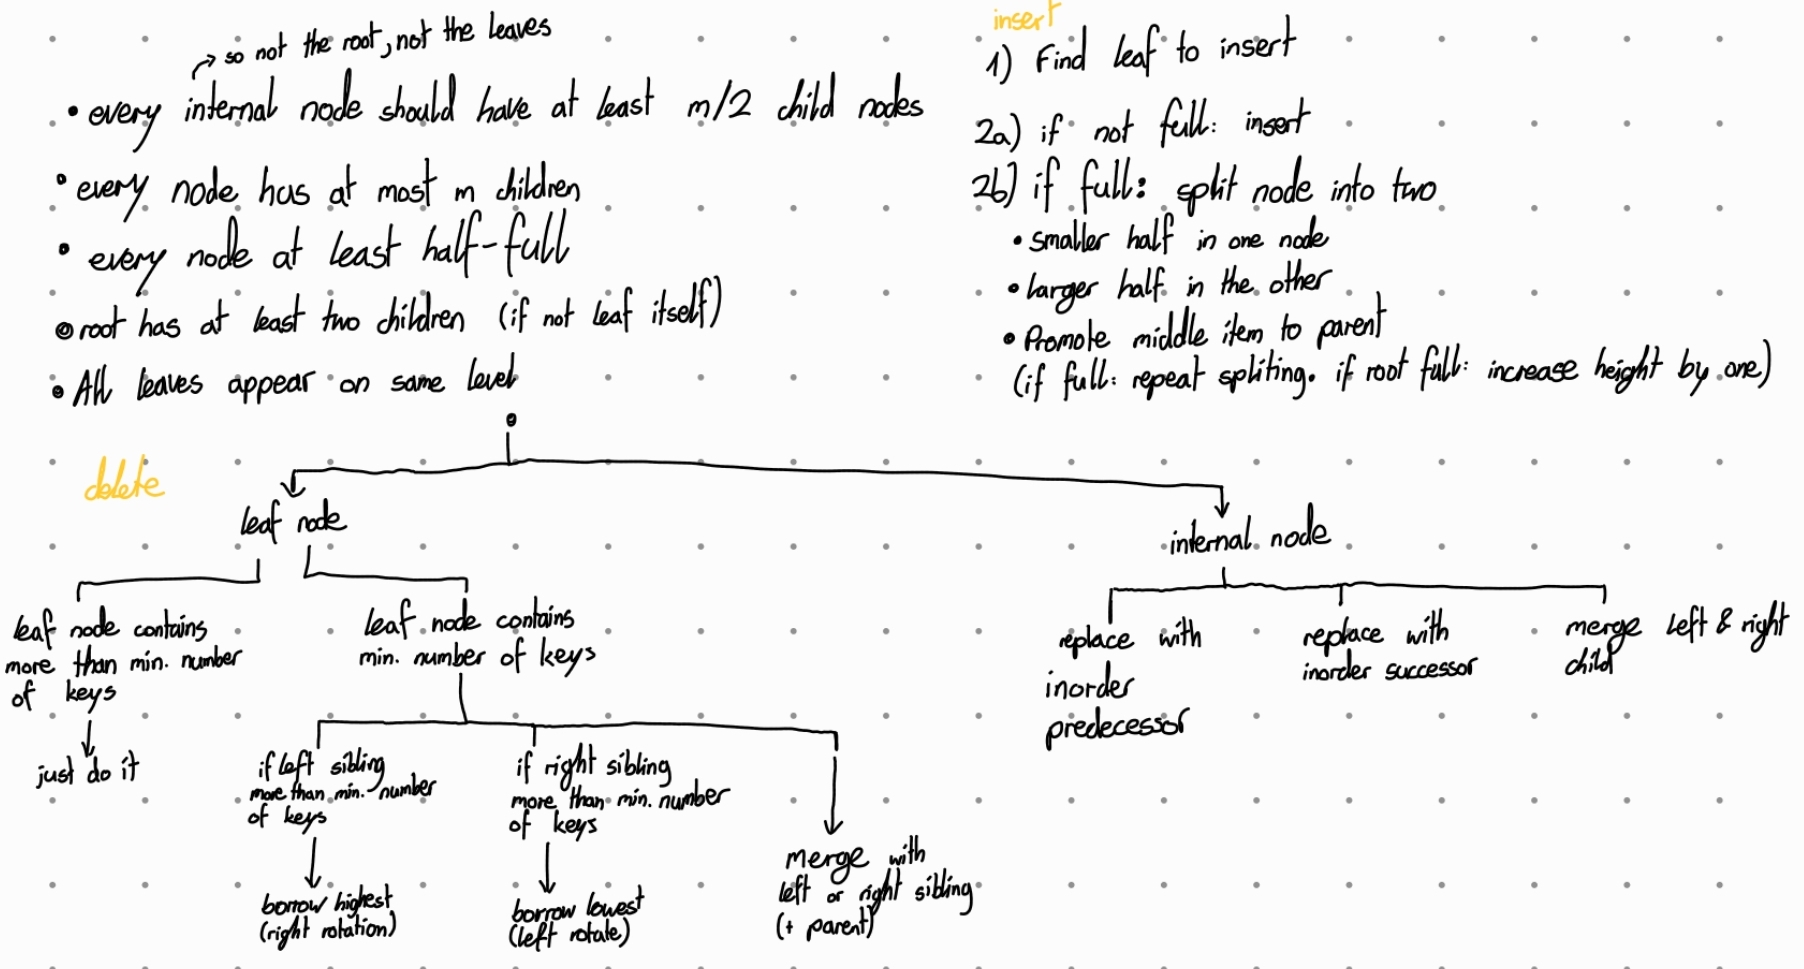
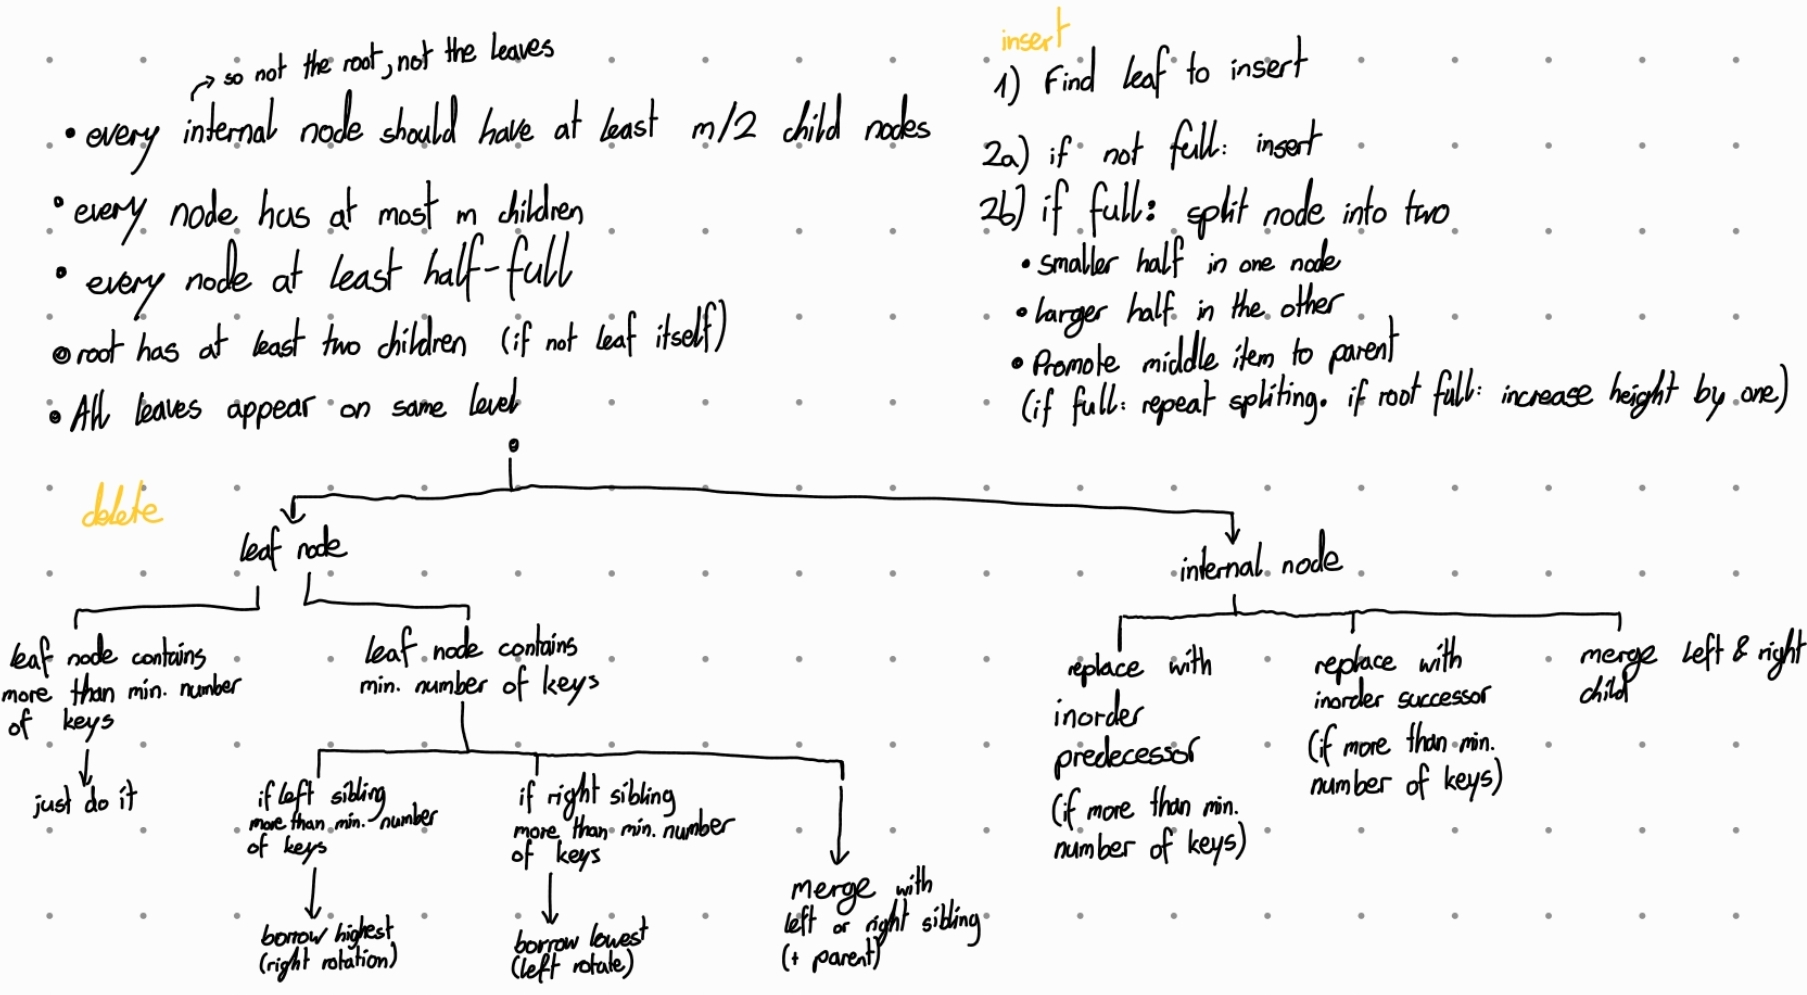
More improvements in db cheatsheet

diff --git a/DBS1/main.tex b/DBS1/main.tex
@@ -31,6 +31,13 @@
 1:n via Fremdschlüssel (oder Zwischentabelle mit Attributen), n:n via
 Zwischentabelle.
 \subsection{Vererbung}
+\begin{description}
+    \item[incomplete] only some instances of the parent class are specialized (have unique attributes)
+    \item[complete] every instance of the parent class has one or more unique attributes that are not common to the parent class
+    \item[overlapping] object could be a member of more than one specialized subclass
+    \item[disjoint] object could be a member of only one specialized subclass
+\end{description}
+\vspace{3pt}
 \begin{itemize}
 \item Eine Tabelle für Sub-/Superklasse, mit enum: \\
     \sql{CREATE TYPE angtyp AS ENUM ('Chefin', 'Sysadmin')}
@@ -176,6 +183,8 @@ Salär (Wert ggf. wiederholt).
 \begin{minted}{sql}
 SELECT name, preis, rank() OVER(ORDER BY preis DESC)
 FROM game LIMIT 5;  -- 5 teuerste Games
+SELECT *, (LEAD(ankunftsZeit) OVER () - abfahrtsZeit)::time as x
+FROM fahrplan; -- Fahrtdauer
 \end{minted}
 
 \begin{description}
@@ -277,16 +286,16 @@ unverändert wie zum Snapshot-Zeitpunkt sind, sonst Rollback.
 
 \checked: möglich; -: unmöglich
 
-% TODO how do I get the title to break?
-\begin{tabularx}{\columnwidth}{c | c | c c | c}
+\begin{tabular}{p{70pt}p{40pt}p{30pt}p{40pt}p{40pt}}
     . & Garantiert Serialisierbarkeit & Deadlocks & Cascading Rollbacks & Konflikt-Rollbacks \\
+    % . & . & . & . & . \\
     \hline
     2PL & \checked & \checked & \checked & - \\
     Strict 2PL & \checked & \checked & - & - \\
     Preclaiming 2PL & \checked & - & - & - \\
-    Snapshot Isolation (SI) & - & \checked & - & \checked \\
+    Snapshot Isolation & - & \checked & - & \checked \\
     SSI & \checked & \checked & - & \checked \\
-\end{tabularx}
+\end{tabular}
 
 \subsection{Isolation levels}
 
@@ -318,7 +327,6 @@ Undo (SQL), PrevLSN]
 
 \section{B-Tree (Balanced-Tree)}
 
-% TODO update this again with newest drawing
 \includegraphics[width=\columnwidth]{b_tree.jpg}
 
 \section{UML}
